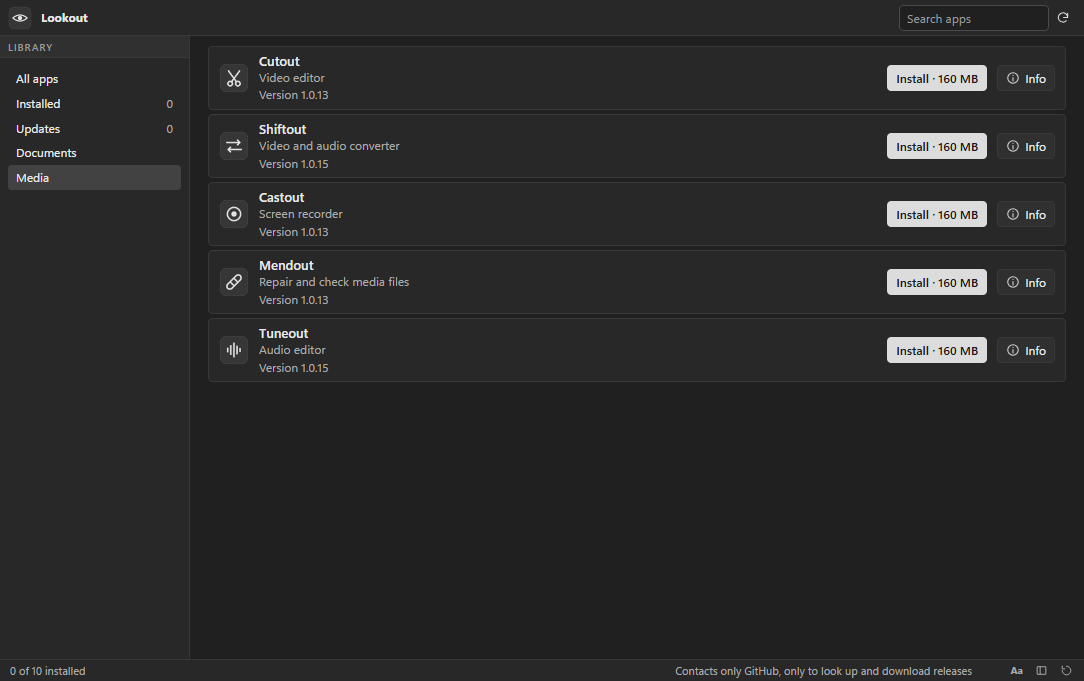
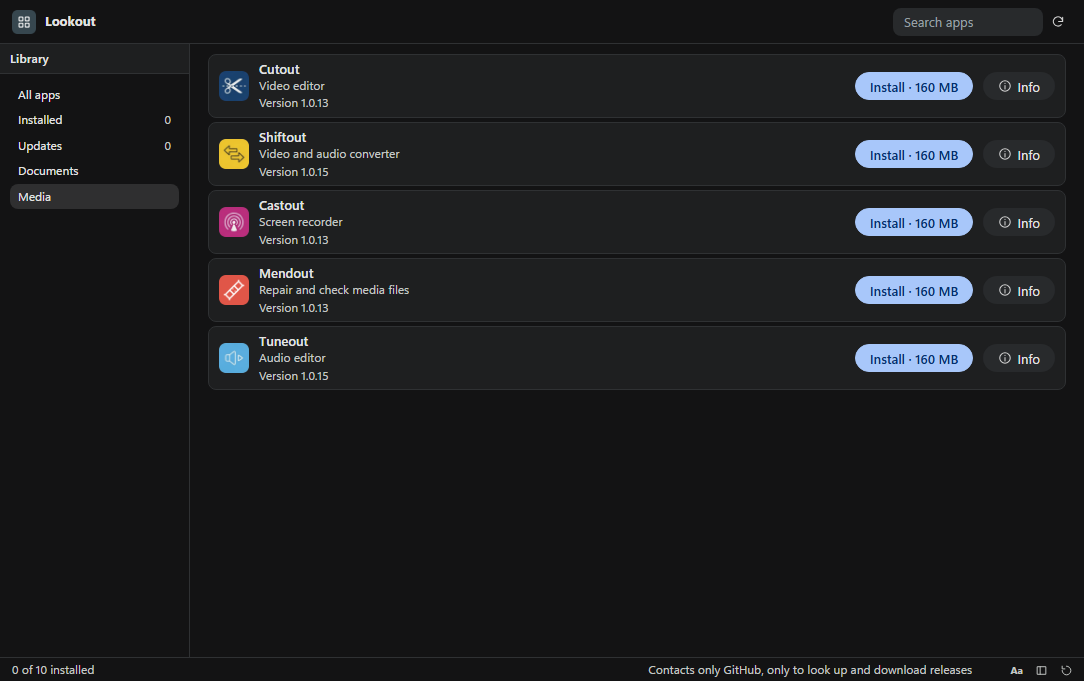
feat: Lookout 1.0.7
New Google-style look: charcoal theme, pill buttons, blue accent, colour app logo. Refreshed README and screenshots.

diff --git a/renderer/lookout.css b/renderer/lookout.css
@@ -1,68 +1,69 @@
-/* Lookout gray UI kit v3: compact pro workspace, flat, no hue. Shared by every Lookout app. */
+/* Lookout UI kit v4: Google-style dark (AI Studio / Colab / Gemini): soft surfaces, pill buttons, blue accent. Shared by every Lookout app. */
 :root{
-  --bg:#202020; --bg-2:#282828; --bg-3:#303030; --bg-4:#3a3a3a; --stage:#181818;
-  --line:#383838; --line-2:#4a4a4a; --line-3:#5c5c5c;
-  --text:#e8e8e8; --text-2:#ababab; --text-3:#9a9a9a;
-  --accent:#dcdcdc; --accent-ink:#1b1b1b; --focus:#a0a0a0;
-  --radius:4px; --h:26px; --pad:8px;
-  --font:"Segoe UI Variable Text","Segoe UI",system-ui,-apple-system,sans-serif; --mono:Consolas,"Cascadia Mono",monospace;
+  --bg:#131314; --bg-2:#1e1f20; --bg-3:#282a2c; --bg-4:#333537; --stage:#0e0e0f;
+  --line:#2f3133; --line-2:#444746; --line-3:#5f6368;
+  --text:#e3e3e3; --text-2:#c4c7c5; --text-3:#9aa0a6;
+  --accent:#a8c7fa; --accent-ink:#062e6f; --accent-2:#0b57d0; --accent-soft:#2b3a55; --focus:#a8c7fa;
+  --radius:8px; --h:28px; --pad:10px;
+  --font:"Google Sans Text","Google Sans",Roboto,"Segoe UI Variable Text","Segoe UI",system-ui,-apple-system,sans-serif; --mono:Consolas,"Cascadia Mono",monospace;
 }
 *{box-sizing:border-box;margin:0;padding:0}
-html,body{height:100%;background:var(--bg);color:var(--text);font:12px/1.4 var(--font);overflow:hidden;user-select:none;-webkit-font-smoothing:antialiased}
+html,body{height:100%;background:var(--bg);color:var(--text);font:13px/1.45 var(--font);overflow:hidden;user-select:none;-webkit-font-smoothing:antialiased}
 button,input,select,textarea{font:inherit;color:inherit}
 .app{display:grid;grid-template-rows:auto 1fr auto;height:100vh}
 
 /* ---------- toolbar ---------- */
-.toolbar{display:flex;align-items:center;gap:1px;padding:4px 8px;min-height:36px;background:var(--bg-2);border-bottom:1px solid var(--line);flex-wrap:nowrap;overflow-x:auto;overflow-y:hidden;scrollbar-width:none}
+.toolbar{display:flex;align-items:center;gap:1px;padding:6px 12px;min-height:44px;background:var(--bg);border-bottom:1px solid var(--line);flex-wrap:nowrap;overflow-x:auto;overflow-y:hidden;scrollbar-width:none}
 .toolbar::-webkit-scrollbar{height:0}
 .toolbar>*{flex-shrink:0}
-.toolbar .sep{width:1px;height:16px;align-self:center;background:var(--line-2);margin:0 5px;opacity:.8}
+.toolbar .sep{width:1px;height:20px;align-self:center;background:var(--line-2);margin:0 8px;opacity:.7}
 .toolbar .grow{flex:1 1 auto;min-width:8px}
 .toolbar input[type=text],.toolbar input[type=search]{width:150px}
-.brand{display:flex;align-items:center;gap:7px;padding-right:2px;margin-right:2px;font-weight:600;font-size:12px;color:var(--text)}
-.brand img{width:20px;height:20px;border-radius:5px;display:block}
+.brand{display:flex;align-items:center;gap:7px;padding-right:2px;margin-right:2px;font-weight:500;font-size:15px;letter-spacing:.1px;color:var(--text)}
+.brand img{width:24px;height:24px;border-radius:7px;display:block}
 .brand+.sep{margin-left:0}
 
 /* ---------- buttons ---------- */
-.btn{display:inline-flex;align-items:center;justify-content:center;gap:5px;height:var(--h);padding:0 8px;background:var(--bg-3);border:1px solid var(--line);border-radius:var(--radius);cursor:pointer;white-space:nowrap;line-height:1;transition:background .08s,border-color .08s}
-.btn:hover{background:var(--bg-4);border-color:var(--line-2)}
-.btn:active{background:#262626}
+.btn{display:inline-flex;align-items:center;justify-content:center;gap:5px;height:var(--h);padding:0 14px;background:var(--bg-3);border:1px solid transparent;border-radius:999px;cursor:pointer;white-space:nowrap;line-height:1;transition:background .08s,border-color .08s}
+.btn:hover{background:var(--bg-4)}
+.btn:active{background:#3c3f41}
 .btn:focus-visible,input:focus-visible,select:focus-visible,textarea:focus-visible,[tabindex]:focus-visible{outline:2px solid var(--focus);outline-offset:1px}
-.btn.primary{background:var(--accent);color:var(--accent-ink);border-color:var(--accent);font-weight:600}
-.btn.primary:hover{background:#ececec;border-color:#ececec}
-.btn.on{background:#4a4a4a;border-color:var(--line-3);box-shadow:inset 0 0 0 1px #6a6a6a}
+.btn.primary{background:var(--accent);color:var(--accent-ink);border-color:var(--accent);font-weight:500}
+.btn.primary:hover{background:#c2d7fb;border-color:#c2d7fb;box-shadow:0 1px 3px rgba(0,0,0,.4)}
+.btn.on{background:var(--accent-soft);color:var(--accent);border-color:transparent}
 .btn[disabled]{opacity:.45;pointer-events:none}
-.btn.icon{padding:0;width:var(--h);min-width:var(--h)}
+.btn.icon{padding:0;width:var(--h);min-width:var(--h);border-radius:50%}
 .btn .ic{width:14px;height:14px;flex-shrink:0;display:block;opacity:.92}
 .toolbar .btn:not(.primary):not(.on){background:transparent;border-color:transparent}
-.toolbar .btn:not(.primary):not(.on):hover{background:var(--bg-4);border-color:var(--line-2)}
+.toolbar .btn:not(.primary):not(.on):hover{background:var(--bg-3);border-color:transparent}
 
 /* icon-only toolbar: names live in the tooltip (Aa in the status bar brings the labels back) */
-.toolbar:not(.lbl) .btn:not(.primary):has(> svg.ic),.toolbar.c3 .btn:has(> svg.ic){font-size:0;gap:0;width:var(--h);padding:0}
+.toolbar:not(.lbl) .btn:not(.primary):has(> svg.ic),.toolbar.c3 .btn:has(> svg.ic){font-size:0;gap:0;width:var(--h);padding:0;border-radius:50%}
 .toolbar.c2 .brand span{display:none}
 .toolbar.c2 input[type=text],.toolbar.c2 input[type=search]{width:110px}
 .toolbar.lbl.c1 .btn.minor:not(.primary):has(> svg.ic),.toolbar.lbl.c2 .btn:not(.primary):has(> svg.ic){font-size:0;gap:0;width:var(--h);padding:0}
 
 /* ---------- fields ---------- */
-input[type=text],input[type=number],input[type=search],input[type=date],select,textarea{background:var(--bg);border:1px solid var(--line-2);border-radius:var(--radius);padding:0 7px;height:var(--h);user-select:text;min-width:0;font-size:12px}
+input[type=text],input[type=number],input[type=search],input[type=date],select,textarea{background:var(--bg-3);border:1px solid transparent;border-radius:var(--radius);padding:0 10px;height:var(--h);user-select:text;min-width:0;font-size:13px}
 input[type=number],.frow>input,.field>input{font-variant-numeric:tabular-nums}
 textarea{height:auto;padding:5px 7px;resize:vertical;line-height:1.4}
 select{padding-right:4px;cursor:pointer}
-input:hover,select:hover,textarea:hover{border-color:var(--line-3)}
-input[type=range]{accent-color:#c8c8c8;height:var(--h)}
-input[type=checkbox]{accent-color:#c8c8c8;width:14px;height:14px;cursor:pointer}
-input[type=color]{border:1px solid var(--line-2);background:var(--bg);width:26px;height:var(--h);padding:2px;border-radius:var(--radius)}
-label.field{display:flex;flex-direction:column;gap:3px;color:var(--text-2);font-size:11px}
-label.field>input,label.field>select,label.field>textarea{width:100%;color:var(--text);font-size:12px}
+input:hover,select:hover,textarea:hover{background:var(--bg-4)}
+input[type=text]:focus,input[type=number]:focus,input[type=search]:focus,input[type=date]:focus,select:focus,textarea:focus{outline:none;border-color:var(--accent);background:var(--bg-2)}
+input[type=range]{accent-color:#a8c7fa;height:var(--h)}
+input[type=checkbox]{accent-color:#a8c7fa;width:14px;height:14px;cursor:pointer}
+input[type=color]{border:1px solid var(--line-2);background:var(--bg-3);width:26px;height:var(--h);padding:2px;border-radius:var(--radius)}
+label.field{display:flex;flex-direction:column;gap:3px;color:var(--text-2);font-size:12px}
+label.field>input,label.field>select,label.field>textarea{width:100%;color:var(--text);font-size:13px}
 
 /* ---------- layout ---------- */
 .main{display:flex;min-height:0;min-width:0}
-.sidebar{width:210px;background:var(--bg-2);border-right:1px solid var(--line);overflow:auto;padding:var(--pad);flex-shrink:0;min-width:0}
+.sidebar{width:210px;background:var(--bg);border-right:1px solid var(--line);overflow:auto;padding:var(--pad);flex-shrink:0;min-width:0}
 .sidebar.right{border-right:0;border-left:1px solid var(--line);width:250px}
 .sidebar.collapsed{display:none!important}
-.sidebar h3,.panel-title{font-size:10px;text-transform:uppercase;letter-spacing:.09em;color:var(--text-3);font-weight:600}
+.sidebar h3,.panel-title{font-size:12px;letter-spacing:.2px;color:var(--text-2);font-weight:500}
 .sidebar h3{margin:12px 0 6px}
-.sidebar>h3{display:flex;align-items:center;gap:6px;height:22px;margin:10px calc(var(--pad) * -1) 8px;padding:0 var(--pad);background:var(--bg-3);border-top:1px solid var(--line);border-bottom:1px solid var(--line)}
+.sidebar>h3{display:flex;align-items:center;gap:6px;height:30px;margin:10px calc(var(--pad) * -1) 8px;padding:0 var(--pad);background:var(--bg-2);border-top:1px solid var(--line);border-bottom:1px solid var(--line);color:var(--text)}
 .sidebar>h3:first-child{margin-top:calc(var(--pad) * -1);border-top:0}
 .panel-title{margin:12px 0 6px}
 .sidebar input[type=text],.sidebar input[type=search],.sidebar select,.sidebar textarea{width:100%}
@@ -73,20 +74,20 @@ label.field>input,label.field>select,label.field>textarea{width:100%;color:var(-
 .sidebar .btn{width:auto}
 .sidebar>.btn{width:100%;margin-bottom:5px}
 .stage{flex:1;min-width:0;min-height:0;position:relative;background:var(--stage);overflow:auto}
-.status{display:flex;gap:14px;align-items:center;height:22px;padding:0 10px;background:var(--bg-2);border-top:1px solid var(--line);color:var(--text-2);font-size:11px;white-space:nowrap;overflow:hidden}
+.status{display:flex;gap:14px;align-items:center;height:24px;padding:0 12px;background:var(--bg);border-top:1px solid var(--line);color:var(--text-2);font-size:12px;white-space:nowrap;overflow:hidden}
 .status .grow{flex:1}
 body.hasdock .status{padding-right:112px}
-.wbs{position:fixed;right:6px;bottom:2px;height:18px;display:flex;gap:2px;z-index:8;background:var(--bg-2);padding-left:6px}
+.wbs{position:fixed;right:6px;bottom:2px;height:18px;display:flex;gap:2px;z-index:8;background:var(--bg);padding-left:6px}
 .wbs[hidden]{display:none}
-.wbs .wb{height:18px;min-width:22px;padding:0 4px;display:inline-flex;align-items:center;justify-content:center;font-size:10px;font-weight:700;line-height:1;background:transparent;border:1px solid transparent;border-radius:3px;color:var(--text-2);cursor:pointer}
+.wbs .wb{height:18px;min-width:22px;padding:0 4px;display:inline-flex;align-items:center;justify-content:center;font-size:10px;font-weight:700;line-height:1;background:transparent;border:1px solid transparent;border-radius:6px;color:var(--text-2);cursor:pointer}
 .wbs .wb[hidden]{display:none}
 .wbs .wb svg{width:13px;height:13px;display:block}
-.wbs .wb:hover{background:var(--bg-4);border-color:var(--line-2);color:var(--text)}
-.wbs .wb.on{background:var(--bg-4);border-color:var(--line-3);color:var(--text)}
+.wbs .wb:hover{background:var(--bg-3);color:var(--text)}
+.wbs .wb.on{background:var(--accent-soft);color:var(--accent)}
 .list{display:flex;flex-direction:column;gap:1px}
-.list .item{padding:3px 6px;border-radius:var(--radius);cursor:pointer;border:1px solid transparent;display:flex;gap:6px;align-items:center;min-height:26px}
+.list .item{padding:3px 10px;border-radius:999px;cursor:pointer;border:1px solid transparent;display:flex;gap:6px;align-items:center;min-height:26px}
 .list .item:hover{background:var(--bg-3)}
-.list .item.sel{background:var(--bg-4);border-color:var(--line-2)}
+.list .item.sel{background:var(--accent-soft);color:var(--accent);border-color:transparent}
 .row{display:flex;gap:5px;align-items:center}
 .grow{flex:1 1 auto;min-width:0}
 .brow{display:grid;grid-template-columns:1fr 1fr;gap:5px;margin-bottom:5px}
@@ -99,17 +100,17 @@ body.hasdock .status{padding-right:112px}
 .sidebar .swatches{margin-bottom:8px}
 .list .item .btn{height:22px!important;width:24px!important;padding:0!important;font-size:0!important;gap:0;background:transparent;border-color:transparent;opacity:.55}
 .list .item:hover .btn,.list .item.sel .btn{opacity:1}
-.list .item .btn:hover{background:var(--bg-4);border-color:var(--line-2)}
+.list .item .btn:hover{background:var(--bg-4)}
 .col{display:flex;flex-direction:column;gap:5px}
 .muted{color:var(--text-2)}
 .empty{position:absolute;inset:0;display:flex;flex-direction:column;align-items:center;justify-content:center;gap:10px;color:var(--text-3);text-align:center;padding:24px}
-.empty .big{font-size:16px;color:var(--text-2);font-weight:600}
+.empty .big{font-size:20px;color:var(--text);font-weight:400}
 
 /* panel grip: drag to resize, double-click to collapse or restore */
 .grip{position:relative;flex:0 0 5px;width:5px;margin:0 -3px 0 -2px;z-index:6;cursor:col-resize;touch-action:none}
 .grip::after{content:"";position:absolute;top:0;bottom:0;left:2px;width:1px;background:transparent;transition:background .1s}
-.grip:hover::after,.grip.drag::after{background:var(--line-3);width:2px;left:1px}
-.grip.collapsed{flex:0 0 8px;width:8px;margin:0;background:var(--bg-2);border-left:1px solid var(--line);border-right:1px solid var(--line)}
+.grip:hover::after,.grip.drag::after{background:var(--accent);width:2px;left:1px}
+.grip.collapsed{flex:0 0 8px;width:8px;margin:0;background:var(--bg);border-left:1px solid var(--line);border-right:1px solid var(--line)}
 .grip.collapsed::after{left:3px;top:calc(50% - 14px);bottom:auto;height:28px;width:2px;background:var(--line-3);border-radius:2px}
 .grip.collapsed:hover{background:var(--bg-3)}
 body.gripping{cursor:col-resize}
@@ -117,30 +118,30 @@ body.gripping *{cursor:col-resize!important;user-select:none!important}
 
 /* ---------- overlays ---------- */
 .modal-back{position:fixed;inset:0;background:rgba(0,0,0,.6);display:flex;align-items:center;justify-content:center;z-index:50}
-.modal{background:var(--bg-2);border:1px solid var(--line-2);border-radius:8px;min-width:340px;max-width:80vw;max-height:85vh;overflow:auto;padding:16px;display:flex;flex-direction:column;gap:12px;box-shadow:0 18px 50px rgba(0,0,0,.5)}
-.modal h2{font-size:14px;font-weight:600}
-.toast{position:fixed;left:50%;bottom:34px;transform:translateX(-50%);background:var(--bg-4);border:1px solid var(--line-3);padding:7px 14px;border-radius:6px;z-index:60;box-shadow:0 8px 24px rgba(0,0,0,.4)}
-.progress{height:5px;background:var(--bg);border:1px solid var(--line);border-radius:4px;overflow:hidden}
+.modal{background:var(--bg-2);border:0;border-radius:24px;min-width:360px;max-width:80vw;max-height:85vh;overflow:auto;padding:24px;display:flex;flex-direction:column;gap:14px;box-shadow:0 8px 32px rgba(0,0,0,.6)}
+.modal h2{font-size:20px;font-weight:400}
+.toast{position:fixed;left:50%;bottom:34px;transform:translateX(-50%);background:#e3e3e3;color:#1f1f1f;border:0;padding:10px 18px;border-radius:8px;z-index:60;box-shadow:0 8px 24px rgba(0,0,0,.4)}
+.progress{height:6px;background:var(--bg-3);border:0;border-radius:999px;overflow:hidden}
 .progress>i,.progress>div{display:block;height:100%;background:var(--accent);width:0}
 
 /* ---------- tables ---------- */
 table.grid{border-collapse:separate;border-spacing:0;width:100%}
 table.grid th,table.grid td{border-bottom:1px solid var(--line);padding:0 10px;height:30px;text-align:left;vertical-align:middle}
-table.grid th{background:var(--bg-2);color:var(--text-2);font-weight:600;font-size:11px;position:sticky;top:0;z-index:1;height:26px}
-table.grid tbody tr:hover td{background:#242424}
-table.grid tr.sel td{background:#323232}
+table.grid th{background:var(--bg-2);color:var(--text-2);font-weight:500;font-size:12px;position:sticky;top:0;z-index:1;height:26px}
+table.grid tbody tr:hover td{background:var(--bg-2)}
+table.grid tr.sel td{background:var(--accent-soft)}
 table.grid tbody tr{cursor:default}
 table.grid td .btn{height:22px;margin-left:6px;vertical-align:middle}
 table.grid td{white-space:nowrap}
 
 /* ---------- misc ---------- */
 ::-webkit-scrollbar{width:10px;height:10px}
-::-webkit-scrollbar-thumb{background:#454545;border:3px solid transparent;background-clip:padding-box;border-radius:8px}
-::-webkit-scrollbar-thumb:hover{background:#5a5a5a;background-clip:padding-box;border:3px solid transparent}
+::-webkit-scrollbar-thumb{background:#4a4d50;border:3px solid transparent;background-clip:padding-box;border-radius:8px}
+::-webkit-scrollbar-thumb:hover{background:#6b6f73;background-clip:padding-box;border:3px solid transparent}
 ::-webkit-scrollbar-track,::-webkit-scrollbar-corner{background:transparent}
 .swatches{display:flex;flex-wrap:wrap;gap:5px}
-.swatches button{width:20px;height:20px;border:1px solid var(--line-3);border-radius:4px;cursor:pointer;padding:0}
+.swatches button{width:22px;height:22px;border:1px solid var(--line-3);border-radius:50%;cursor:pointer;padding:0}
 .swatches button.on{outline:2px solid var(--accent);outline-offset:2px}
-kbd{font-family:var(--mono);font-size:10px;background:var(--bg-3);border:1px solid var(--line-2);border-bottom-width:2px;border-radius:3px;padding:0 4px}
+kbd{font-family:var(--mono);font-size:10px;background:var(--bg-3);border:1px solid var(--line-2);border-bottom-width:2px;border-radius:4px;padding:0 5px}
 
 input::placeholder,textarea::placeholder{color:var(--text-3);opacity:1}

diff --git a/README.md b/README.md
@@ -1,14 +1,60 @@
-<p align="center"><img src="screenshots/banner.png" alt="Lookout" width="100%"></p>
+<p align="center"><img src="screenshots/logo.png" alt="Lookout" width="128"></p>
 
-<p align="center"><b>Install and update your apps</b><br>Version 1.0.1 for Windows · Free · No account</p>
+<h1 align="center">Lookout</h1>
 
-<p align="center"><a href="https://github.com/plawanpawin-byte/lookout-launcher/releases/latest"><b>Download Lookout</b></a> · <a href="https://github.com/plawanpawin-byte/Lookout">All Lookout apps</a></p>
+<p align="center"><b>Install and update your apps</b><br>Version 1.0.7 for Windows · Free · Offline · No account</p>
+
+<p align="center"><a href="https://github.com/plawanpawin-byte/lookout-launcher/releases/latest"><b>Download Lookout</b></a> · <a href="https://github.com/plawanpawin-byte/lookout-launcher">Lookout launcher</a> · <a href="https://github.com/plawanpawin-byte/Lookout">All Lookout apps</a></p>
 
 ---
 
 Lookout is the home for the Lookout apps. It lists all ten, tells you which ones you have, installs any of them with one click, opens them, removes them, and offers updates when a new version is published. Think of it as a small app store for one family of apps, without an account.
 
 ![App library](screenshots/01-app-library.png)
+
+**On this page:** [In plain words](#in-plain-words) · [Who it is for](#who-it-is-for) · [Try it in 3 steps](#try-it-in-3-steps) · [Screenshots](#see-it-in-action) · [Features](#everything-it-can-do) · [How to use it](#how-to-use-it) · [Privacy](#private-by-design) · [Install](#install) · [Questions](#questions)
+
+## In plain words
+
+Lookout is the **app library** for the whole family. Instead of visiting ten web pages, you open Lookout, see every app with a picture and a short description, and press **Install**. It lists which apps you already have, shows when a newer version exists and updates them in one click. You can also open or remove an app from here.
+
+It is like a small shop for one family of apps, with no account and no payment.
+
+**Not for:** Lookout only installs and updates the Lookout apps. It does not manage other software.
+
+## Who it is for
+
+- **Everyone who wants more than one Lookout app**, in one place.
+- **People who want to stay up to date** without watching for new releases.
+
+## Try it in 3 steps
+
+1. Open Lookout and use the left list to filter by **Documents** or **Media**.
+2. Press **Install** next to an app; it downloads and sets itself up.
+3. Come back later; **Updates** will list any app with a newer version.
+
+## What is new in 1.0.7
+
+A new look inspired by Google's own tools (AI Studio, Colab, Gemini): a calm dark charcoal theme, rounded pill buttons, a soft blue accent and roomier spacing. The app icon is now a colour logo so you can find Lookout at a glance in the Start menu and in the Lookout launcher. All screenshots below were taken again with the new look.
+
+## In plain words
+
+Lookout is the **app library** for the whole family. Instead of visiting ten web pages, you open Lookout, see every app with a picture and a short description, and press **Install**. It lists which apps you already have, shows when a newer version exists and updates them in one click. You can also open or remove an app from here.
+
+It is like a small shop for one family of apps, with no account and no payment.
+
+**Not for:** Lookout only installs and updates the Lookout apps. It does not manage other software.
+
+## Who it is for
+
+- **Everyone who wants more than one Lookout app**, in one place.
+- **People who want to stay up to date** without watching for new releases.
+
+## Try it in 3 steps
+
+1. Open Lookout and use the left list to filter by **Documents** or **Media**.
+2. Press **Install** next to an app; it downloads and sets itself up.
+3. Come back later; **Updates** will list any app with a newer version.
 
 ## See it in action
 
@@ -68,5 +114,43 @@ You can open and use every installed app offline. The library needs a connection
 
 **Where are the apps installed?**
 In your user profile, so no administrator rights are needed. Each app also appears in Windows Settings under Installed apps.
+
+Released under the MIT License.
+
+**Does it need the internet?**  
+Only to look up and download releases from GitHub. Nothing about you or your files is sent.
+
+**Do I need Lookout to use the apps?**  
+No. Each app can be installed on its own from its releases page.
+
+**Does it need an account?**  
+No.
+
+**Does it need the internet?**  
+Only to look up and download releases from GitHub. Nothing about you or your files is sent.
+
+**Do I need Lookout to use the apps?**  
+No. Each app can be installed on its own from its releases page.
+
+**Does it need an account?**  
+No.
+
+## About Lookout
+
+Lookout is part of **[Lookout](https://github.com/plawanpawin-byte/Lookout)**: ten small, private Windows apps for documents and media that share one look and one promise, that your files stay on your computer. Install and update them together with the [Lookout launcher](https://github.com/plawanpawin-byte/lookout-launcher).
+
+| | App | What it is for | Code |
+| --- | --- | --- | --- |
+| <img src="https://raw.githubusercontent.com/plawanpawin-byte/lookout-launcher/main/build/icon.png" width="32" alt="Lookout"> | **Lookout** | Install, open and update all the apps below | [GitHub](https://github.com/plawanpawin-byte/lookout-launcher) |
+| <img src="https://raw.githubusercontent.com/plawanpawin-byte/pageout/main/build/icon.png" width="32" alt="Pageout"> | **Pageout** | Read, annotate and sign PDFs | [GitHub](https://github.com/plawanpawin-byte/pageout) |
+| <img src="https://raw.githubusercontent.com/plawanpawin-byte/chartout/main/build/icon.png" width="32" alt="Chartout"> | **Chartout** | Flowcharts, org charts and diagrams | [GitHub](https://github.com/plawanpawin-byte/chartout) |
+| <img src="https://raw.githubusercontent.com/plawanpawin-byte/branchout/main/build/icon.png" width="32" alt="Branchout"> | **Branchout** | Mind maps and outlines | [GitHub](https://github.com/plawanpawin-byte/branchout) |
+| <img src="https://raw.githubusercontent.com/plawanpawin-byte/planout/main/build/icon.png" width="32" alt="Planout"> | **Planout** | Project plans and Gantt timelines | [GitHub](https://github.com/plawanpawin-byte/planout) |
+| <img src="https://raw.githubusercontent.com/plawanpawin-byte/frameout/main/build/icon.png" width="32" alt="Frameout"> | **Frameout** | App and web screen design with click-through prototypes | [GitHub](https://github.com/plawanpawin-byte/frameout) |
+| <img src="https://raw.githubusercontent.com/plawanpawin-byte/cutout/main/build/icon.png" width="32" alt="Cutout"> | **Cutout** | Video editing on a timeline | [GitHub](https://github.com/plawanpawin-byte/cutout) |
+| <img src="https://raw.githubusercontent.com/plawanpawin-byte/shiftout/main/build/icon.png" width="32" alt="Shiftout"> | **Shiftout** | Convert and compress video and audio, make GIFs | [GitHub](https://github.com/plawanpawin-byte/shiftout) |
+| <img src="https://raw.githubusercontent.com/plawanpawin-byte/castout/main/build/icon.png" width="32" alt="Castout"> | **Castout** | Record your screen | [GitHub](https://github.com/plawanpawin-byte/castout) |
+| <img src="https://raw.githubusercontent.com/plawanpawin-byte/mendout/main/build/icon.png" width="32" alt="Mendout"> | **Mendout** | Check and repair damaged video, audio, pictures and PDFs | [GitHub](https://github.com/plawanpawin-byte/mendout) |
+| <img src="https://raw.githubusercontent.com/plawanpawin-byte/tuneout/main/build/icon.png" width="32" alt="Tuneout"> | **Tuneout** | Record and edit audio | [GitHub](https://github.com/plawanpawin-byte/tuneout) |
 
 Released under the MIT License.
